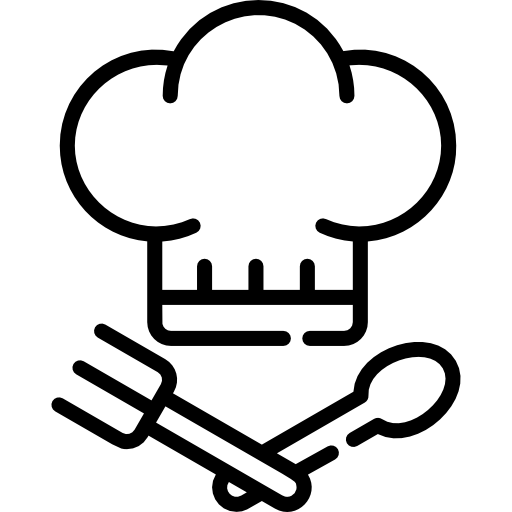
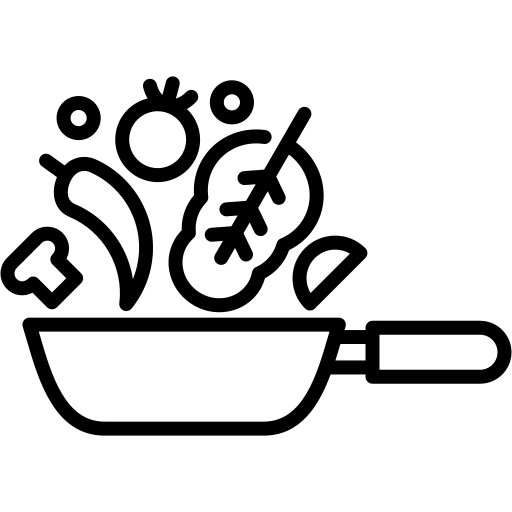
UI amélioration add food fxml et autre

Changed region(s): [[0.0, 0.0, 1.0, 1.0]]

diff --git a/src/main/java/ulb/views/AddFoodViewController.java b/src/main/java/ulb/views/AddFoodViewController.java
@@ -46,16 +46,17 @@ public class AddFoodViewController implements ViewController {
 	@FXML private TextField searchField;
 	@FXML private ListView<String> suggestionsList;
 	@FXML private ListView<HBox> chosenFoodView;
-	@FXML private Slider slider;
 	@FXML private ToggleButton toggleButton;
 	@FXML private Label title;
-	@FXML private Label name;
-	@FXML private TextField textField;
+	@FXML private TextField nameMealTextField;
 	@FXML private DatePicker mealDate;
 	@FXML private TextField hour;
 	@FXML private TextField minutes;
-	@FXML private Group date;
+	@FXML private Group dateGroup;
+	@FXML private Group newMealGroup;
 	@FXML private Label calorieNumber;
+	@FXML private Label listTittleLabel;
+	@FXML private Label listTittleLabel2;
 	private boolean mode = false;
 	private final ArrayList<ArrayList<String>> consumedFoodsList = new ArrayList<>();
 	private AddFoodViewController.Listener listener;
@@ -66,8 +67,7 @@ public class AddFoodViewController implements ViewController {
 		this.hour.setText(String.valueOf(LocalTime.now().getHour()));
 		this.minutes.setText(String.valueOf(LocalTime.now().getMinute()));
 		this.mealDate.setValue(LocalDate.now());
-		this.name.setVisible(false);
-		this.textField.setVisible(false);
+		this.newMealGroup.setVisible(false);
 		this.toggleButton.setSelected(false);
 		searchField
 				.focusedProperty()
@@ -88,16 +88,20 @@ public class AddFoodViewController implements ViewController {
 		if (toggleButton.isSelected()) {
 			this.mode = true;
 			title.setText("Composez un plat");
-			name.setVisible(true);
-			textField.setVisible(true);
-			date.setVisible(false);
-			textField.setText("");
+			toggleButton.setStyle("-fx-background-color: #b7ed65;");
+			listTittleLabel.setText("Rechercher ingrédient");
+			listTittleLabel2.setText("Ingrédients choisis");
+			newMealGroup.setVisible(true);
+			dateGroup.setVisible(false);
+			nameMealTextField.setText("");
 		} else {
 			this.mode = false;
 			title.setText("Ajoutez les aliments consommés");
-			name.setVisible(false);
-			textField.setVisible(false);
-			date.setVisible(true);
+			toggleButton.setStyle("-fx-background-color: #fdbd07;");
+			listTittleLabel.setText("Rechercher aliment");
+			listTittleLabel2.setText("Aliments choisis");
+			newMealGroup.setVisible(false);
+			dateGroup.setVisible(true);
 		}
 		consumedFoodsList.clear();
 		chosenFoodView.getItems().clear();
@@ -251,8 +255,8 @@ public class AddFoodViewController implements ViewController {
 			return;
 		}
 		if (mode) {
-			if (!textField.getText().isEmpty()) {
-				this.listener.saveMeal(textField.getText(), consumedFoodsList);
+			if (!nameMealTextField.getText().isEmpty()) {
+				this.listener.saveMeal(nameMealTextField.getText(), consumedFoodsList);
 			}
 			this.listener.reload();
 		} else {